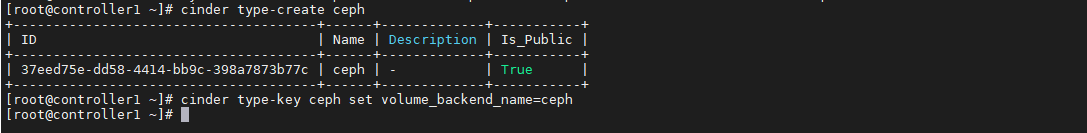
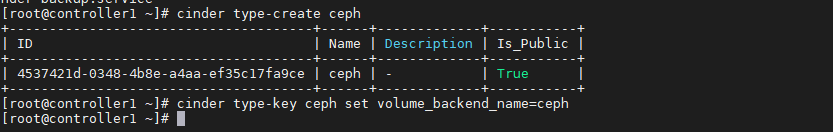
ceph-ops-update

Changed region(s): [[0.0, 0.0, 0.7179, 0.9394], [0.593, 0.5152, 0.6555, 0.6061]]

diff --git a/ceph/thuc-hanh/docs/5-install-ceph-openstack.md b/ceph/thuc-hanh/docs/5-install-ceph-openstack.md
@@ -291,7 +291,7 @@ Khởi tạo 1 `uuid` mới cho cinder (UUID sử dụng chung cho các Compute 
 ```
 uuidgen
 
-eaa1e19c-a781-41bb-9e09-f1c9e9298d6a
+19335802-75bc-419a-9880-37d2d1deb0bd
 ```
 
 - Tạo file `xml` cho phép Ceph RBD (Rados Block Device) xác thực với libvirt (KVM) thông qua uuid vừa tạo. Đoạn `xml` này có ý nghĩa định nghĩa khi xác thực mà gặp key có `uuid` vừa tạo thì sẽ áp dụng kiểu ceph cho `cinder`.
@@ -299,7 +299,7 @@ eaa1e19c-a781-41bb-9e09-f1c9e9298d6a
 ```
 cat > ceph-secret.xml <<EOF
 <secret ephemeral='no' private='no'>
-<uuid>eaa1e19c-a781-41bb-9e09-f1c9e9298d6a</uuid>
+<uuid>19335802-75bc-419a-9880-37d2d1deb0bd</uuid>
 <usage type='ceph'>
 	<name>client.cinder secret</name>
 </usage>
@@ -320,6 +320,8 @@ sudo virsh secret-define --file ceph-secret.xml
 ```
 virsh secret-set-value --secret eaa1e19c-a781-41bb-9e09-f1c9e9298d6a --base64 $(cat /root/client.cinder)
 ```
+
+![](../images/ceph-openstack/Screenshot_21.png)
 
 #### Bước 4: Chỉnh sửa, bổ sung cấu hình trên node Controller
 
@@ -358,7 +360,7 @@ rbd_max_clone_depth = 5
 rbd_store_chunk_size = 4
 rados_connect_timeout = -1
 rbd_user = cinder
-rbd_secret_uuid = eaa1e19c-a781-41bb-9e09-f1c9e9298d6a // secret key vừa tạo ở trên
+rbd_secret_uuid = 19335802-75bc-419a-9880-37d2d1deb0bd // secret key vừa tạo ở trên
 report_discard_supported = true
 ```
 
@@ -378,6 +380,11 @@ systemctl restart openstack-cinder-api.service openstack-cinder-volume.service o
 ```
 
 - Tạo volume type node Controller
+
+```
+cinder type-create ceph
+cinder type-key ceph set volume_backend_name=ceph
+```
 
 ![](../images/ceph-openstack/Screenshot_22.png)
 
@@ -414,12 +421,12 @@ ceph auth get-key client.cinder | ssh 172.16.3.26 tee /root/client.cinder.key
 
 **Trên node COM**
 
-Sử dụng key: `eaa1e19c-a781-41bb-9e09-f1c9e9298d6a` đã tạo ở node Compute01
+Sử dụng key: `19335802-75bc-419a-9880-37d2d1deb0bd` đã tạo ở node Compute01
 
 ```
-cat > secret.xml <<EOF
+cat > ceph-secret.xml <<EOF
 <secret ephemeral='no' private='no'>
-  <uuid>eaa1e19c-a781-41bb-9e09-f1c9e9298d6a</uuid>
+  <uuid>19335802-75bc-419a-9880-37d2d1deb0bd</uuid>
   <usage type='ceph'>
     <name>client.cinder secret</name>
   </usage>
@@ -428,13 +435,13 @@ EOF
 ```
 
 ```
-sudo virsh secret-define --file secret.xml
+sudo virsh secret-define --file ceph-secret.xml
 ```
 
 - Gán giá trị cho file cinder key
 
 ```
-virsh secret-set-value --secret eaa1e19c-a781-41bb-9e09-f1c9e9298d6a --base64 $(cat client.cinder.key)
+virsh secret-set-value --secret 19335802-75bc-419a-9880-37d2d1deb0bd --base64 $(cat client.cinder.key)
 ```
 
 - Restart lại service nova
@@ -457,7 +464,7 @@ ceph auth get-or-create client.nova mon 'allow r' osd 'allow class-read object_p
 
 - Copy key `nova` sang các node Compute
 
-![](../images/ceph-openstack/Screenshot_23.png)
+![](../images/ceph-openstack/Screenshot_26.png)
 
 #### Bước 2: Thao tác trên node Compute
 
@@ -475,7 +482,7 @@ uuidgen
 ```
 
 ```
-e7e132b3-ce49-4720-bc76-d1fb96efa47b
+44b453eb-f1ae-45c3-8d1e-30b0cf795c06
 ```
 
 - Tạo file `xml` cho phép Ceph RBD (Rados Block Device) xác thực với libvirt thông qua uuid vừa tạo
@@ -483,7 +490,7 @@ e7e132b3-ce49-4720-bc76-d1fb96efa47b
 ```
 cat << EOF > nova-ceph.xml
 <secret ephemeral="no" private="no">
-  <uuid>e7e132b3-ce49-4720-bc76-d1fb96efa47b</uuid>
+  <uuid>44b453eb-f1ae-45c3-8d1e-30b0cf795c06</uuid>
   <usage type="ceph">
     <name>client.nova secret</name>
   </usage>
@@ -491,14 +498,18 @@ cat << EOF > nova-ceph.xml
 EOF
 ```
 
-Đoạn `xml` này có ý nghĩa định nghĩa khi xác thực mà gặp key có `uuid` là `e7e132b3-ce49-4720-bc76-d1fb96efa47b` thì sẽ áp dụng kiểu `ceph` cho nova.
+```
+sudo virsh secret-define --file nova-ceph.xml
+```
+
+Đoạn `xml` này có ý nghĩa định nghĩa khi xác thực mà gặp key có `uuid` là `44b453eb-f1ae-45c3-8d1e-30b0cf795c06` thì sẽ áp dụng kiểu `ceph` cho nova.
 
 ![](../images/ceph-openstack/Screenshot_24.png)
 
 - Gán giá trị của `client.nova` cho `uuid`
 
 ```
-virsh secret-set-value --secret e7e132b3-ce49-4720-bc76-d1fb96efa47b --base64 $(cat /root/client.nova)
+virsh secret-set-value --secret 44b453eb-f1ae-45c3-8d1e-30b0cf795c06 --base64 $(cat /root/client.nova)
 ```
 
 #### Bước 4: Chỉnh sửa, bổ sung cấu hình trên node Compute
@@ -509,7 +520,7 @@ virsh secret-set-value --secret e7e132b3-ce49-4720-bc76-d1fb96efa47b --base64 $(
 [libvirt]
 images_rbd_pool=vms
 images_type=rbd
-rbd_secret_uuid=e7e132b3-ce49-4720-bc76-d1fb96efa47b
+rbd_secret_uuid=44b453eb-f1ae-45c3-8d1e-30b0cf795c06
 rbd_user=nova
 images_rbd_ceph_conf = /etc/ceph/ceph.conf
 ```
@@ -522,10 +533,20 @@ systemctl restart openstack-nova-compute
 
 #### Bước 5: Tạo VM từ images để kiểm tra
 
+- Tạo VM từ `images` `cirros-ceph` vừa tạo ở trên:
+
+```
+openstack server create Provider_VM01 --flavor m1.nano --image cirros-ceph --nic net-id=de8ba495-8433-4043-8dac-cbffba6eb423 --security-group default
+```
+
+![](../images/ceph-openstack/Screenshot_27.png)
+
 ```
 rbd -p vms ls
-rbd -p compute info <name_disk>
+rbd info vms/<info_disk>
 ```
+
+![](../images/ceph-openstack/Screenshot_28.png)
 
 #### Bước 6: Tích hợp các node Compute còn lại
 
@@ -545,7 +566,7 @@ Tạo file secret key
 ```
 cat << EOF > nova-ceph.xml
 <secret ephemeral="no" private="no">
-  <uuid>e7e132b3-ce49-4720-bc76-d1fb96efa47b</uuid>
+  <uuid>44b453eb-f1ae-45c3-8d1e-30b0cf795c06</uuid>
   <usage type="ceph">
     <name>client.nova secret</name>
   </usage>
@@ -560,7 +581,7 @@ sudo virsh secret-define --file nova-ceph.xml
 - Gán giá trị của `client.nova` cho `uuid`
 
 ```
-virsh secret-set-value --secret e7e132b3-ce49-4720-bc76-d1fb96efa47b --base64 $(cat /root/client.nova)
+virsh secret-set-value --secret 44b453eb-f1ae-45c3-8d1e-30b0cf795c06 --base64 $(cat /root/client.nova)
 ```
 
 - Chỉnh sửa `nova.conf` trên compute mới `/etc/nova/nova.conf`
@@ -569,7 +590,7 @@ virsh secret-set-value --secret e7e132b3-ce49-4720-bc76-d1fb96efa47b --base64 $(
 [libvirt]
 images_rbd_pool=vms
 images_type=rbd
-rbd_secret_uuid=e7e132b3-ce49-4720-bc76-d1fb96efa47b
+rbd_secret_uuid=44b453eb-f1ae-45c3-8d1e-30b0cf795c06
 rbd_user=nova
 images_rbd_ceph_conf = /etc/ceph/ceph.conf
 ```
@@ -579,6 +600,18 @@ images_rbd_ceph_conf = /etc/ceph/ceph.conf
 ```
 systemctl restart openstack-nova-compute
 ```
+
+![](../images/ceph-openstack/Screenshot_29.png)
+
+- Tạo VM sang node `compute02` để test:
+
+```
+nova boot --flavor m1.nano --image 9735ed16-41fb-4041-8872-2a26e828f72d --security-groups default2 VM5 --nic net-id=de8ba495-8433-4043-8dac-cbffba6eb423 --availability-zone nova:compute02
+```
+
+![](../images/ceph-openstack/Screenshot_30.png)
+
+![](../images/ceph-openstack/Screenshot_31.png)
 
 ## Nguồn tham khảo
 
